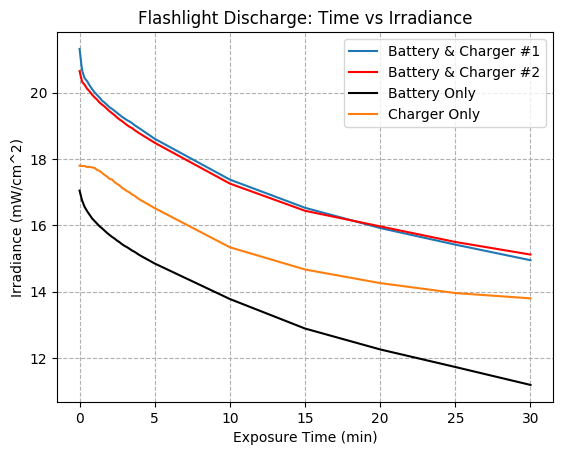
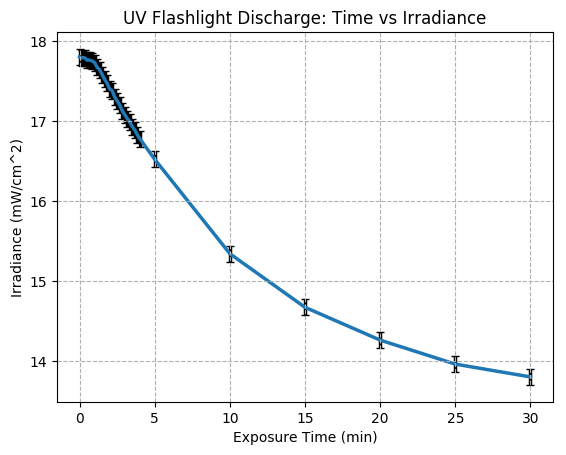
Removed irradiance values of other configurations

diff --git a/src/python_scripts/flashlight_discharge.py b/src/python_scripts/flashlight_discharge.py
@@ -7,20 +7,20 @@ x = np.linspace(0,240,25)
 # Append larger times. Also convert to mins
 x = np.append(x, [[300, 600, 900, 1200, 1500, 1800]])/60
 
-# Irradiance of flashlight with battery connected to charger. Trial #1
-ir_battery_with_charger_1 = [21.32, 20.67, 20.44, 20.35, 20.22, 20.11, 20.01, 19.93, 19.85, 19.76, 19.70, 19.63,
-                             19.56, 19.51, 19.45, 19.39, 19.33, 19.27, 19.22, 19.17, 19.13, 19.08, 19.02, 18.97,
-                             18.92, 18.61, 17.38, 16.53, 15.92, 15.42, 14.95]
-
-# Irradiance of flashlight with battery connected to charger. Trial #2
-ir_battery_with_charger_2 = [20.65, 20.33, 20.24, 20.12, 20.04, 19.94, 19.86, 19.79, 19.70, 19.64, 19.58, 19.51,
-                             19.44, 19.38, 19.32, 19.25, 19.19, 19.14, 19.08, 19.02, 18.97, 18.93, 18.87, 18.82,
-                             18.77, 18.49, 17.26, 16.44, 15.97, 15.50, 15.12]
-
-# Irradiance of flashlight with only battery.
-ir_battery = [17.05, 16.75, 16.56, 16.43, 16.32, 16.21, 16.13, 16.05, 15.97, 15.91, 15.84, 15.77,
-              15.71, 15.65, 15.60, 15.54, 15.49, 15.43, 15.38, 15.34, 15.29, 15.24, 15.20, 15.15,
-              15.10, 14.85, 13.78, 12.89, 12.26, 11.73, 11.19]
+# # Irradiance of flashlight with battery connected to charger. Trial #1
+# ir_battery_with_charger_1 = [21.32, 20.67, 20.44, 20.35, 20.22, 20.11, 20.01, 19.93, 19.85, 19.76, 19.70, 19.63,
+#                              19.56, 19.51, 19.45, 19.39, 19.33, 19.27, 19.22, 19.17, 19.13, 19.08, 19.02, 18.97,
+#                              18.92, 18.61, 17.38, 16.53, 15.92, 15.42, 14.95]
+#
+# # Irradiance of flashlight with battery connected to charger. Trial #2
+# ir_battery_with_charger_2 = [20.65, 20.33, 20.24, 20.12, 20.04, 19.94, 19.86, 19.79, 19.70, 19.64, 19.58, 19.51,
+#                              19.44, 19.38, 19.32, 19.25, 19.19, 19.14, 19.08, 19.02, 18.97, 18.93, 18.87, 18.82,
+#                              18.77, 18.49, 17.26, 16.44, 15.97, 15.50, 15.12]
+#
+# # Irradiance of flashlight with only battery.
+# ir_battery = [17.05, 16.75, 16.56, 16.43, 16.32, 16.21, 16.13, 16.05, 15.97, 15.91, 15.84, 15.77,
+#               15.71, 15.65, 15.60, 15.54, 15.49, 15.43, 15.38, 15.34, 15.29, 15.24, 15.20, 15.15,
+#               15.10, 14.85, 13.78, 12.89, 12.26, 11.73, 11.19]
 
 # Irradiance of flashlight with no battery and connected to charger.
 ir_charger = [17.80, 17.79, 17.79, 17.76, 17.76, 17.75, 17.73, 17.67, 17.64, 17.58, 17.52,
@@ -31,17 +31,19 @@ ir_charger = [17.80, 17.79, 17.79, 17.76, 17.76, 17.75, 17.73, 17.67, 17.64, 17.
 #x_new = np.append(x, [[35, 40, 45, 50]])
 
 # Plot all measured data
-plt.plot(x,ir_battery_with_charger_1)
-plt.plot(x,ir_battery_with_charger_2, 'r')
-plt.plot(x,ir_battery, 'k')
-plt.plot(x,ir_charger)
+# plt.plot(x,ir_battery_with_charger_1)
+# plt.plot(x,ir_battery_with_charger_2, 'r')
+# plt.plot(x,ir_battery, 'k')
+# plt.plot(x,ir_charger)
 
 
 plt.grid(linestyle='--')
 
 plt.xlabel('Exposure Time (min)')
 plt.ylabel('Irradiance (mW/cm^2)')
-plt.title('Flashlight Discharge: Time vs Irradiance')
-plt.legend(['Battery & Charger #1', 'Battery & Charger #2', 'Battery Only', 'Charger Only'])
-# plt.savefig('Flashlight Discharge', bbox_inches='tight')
+plt.title('UV Flashlight Discharge: Time vs Irradiance')
+plt.errorbar(x, ir_charger, linewidth=2.5 ,yerr = .1, capsize = 3, ecolor='black',zorder=1 )
+
+# plt.legend(['Battery & Charger #1', 'Battery & Charger #2', 'Battery Only', 'Charger Only'])
+plt.savefig('Flashlight Discharge', bbox_inches='tight')
 plt.show()
